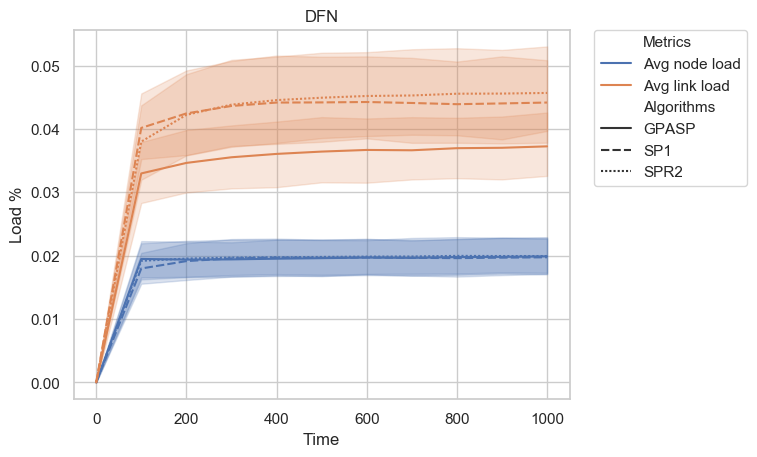
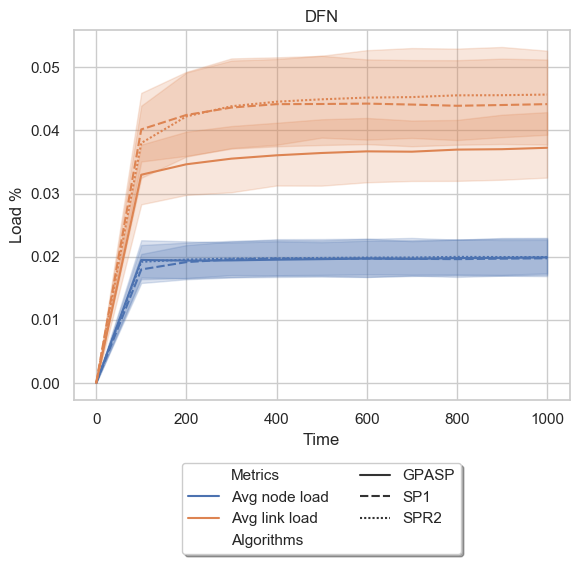
Show correct plot legend, update example

diff --git a/src/algorithms/execution/3x3/plot_runner.py b/src/algorithms/execution/3x3/plot_runner.py
@@ -52,7 +52,10 @@ def main():
                             data=df)
     sns_plot.set_title(f'{pp_network[network]}')
 
-    sns_plot.legend(bbox_to_anchor=(1.05, 1), loc=2, borderaxespad=0.)
+    # Place legend on the right side
+    #sns_plot.legend(bbox_to_anchor=(1.05, 1), loc=2, borderaxespad=0., shadow = True)
+    # Place legend below
+    sns_plot.legend(loc='upper center', bbox_to_anchor=(0.5, -0.15), shadow = True, ncol = 2)
 
     fig = sns_plot.get_figure()
     os.makedirs(f'{output_path}', exist_ok=True)

diff --git a/src/algorithms/execution/time/plot_runner.py b/src/algorithms/execution/time/plot_runner.py
@@ -52,7 +52,10 @@ def main():
                             data=df)
     sns_plot.set_title(f'{pp_network[network]}')
 
-    sns_plot.legend(bbox_to_anchor=(1.05, 1), loc=2, borderaxespad=0.)
+    # Place legend on the right side
+    # sns_plot.legend(bbox_to_anchor=(1.05, 1), loc=2, borderaxespad=0., shadow = True)
+    # Place legend below
+    sns_plot.legend(loc='upper center', bbox_to_anchor=(0.5, -0.15), shadow=True, ncol=2)
 
     fig = sns_plot.get_figure()
     os.makedirs(f'{output_path}', exist_ok=True)

diff --git a/src/algorithms/execution/time/plotter.py b/src/algorithms/execution/time/plotter.py
@@ -14,7 +14,7 @@ def plot_all():
     for c in config:
         for net in networks:
             for key, value in metric_sets.items():
-                processes.append(subprocess.Popen(['E:/Paderborn/Bachelorarbeit/Code_working/adapted_simulator/env/Scripts/python', 'plot_runner.py', c, net, key]))
+                processes.append(subprocess.Popen(['python', 'plot_runner.py', c, net, key]))
     for p in processes:
         p.wait()
 
